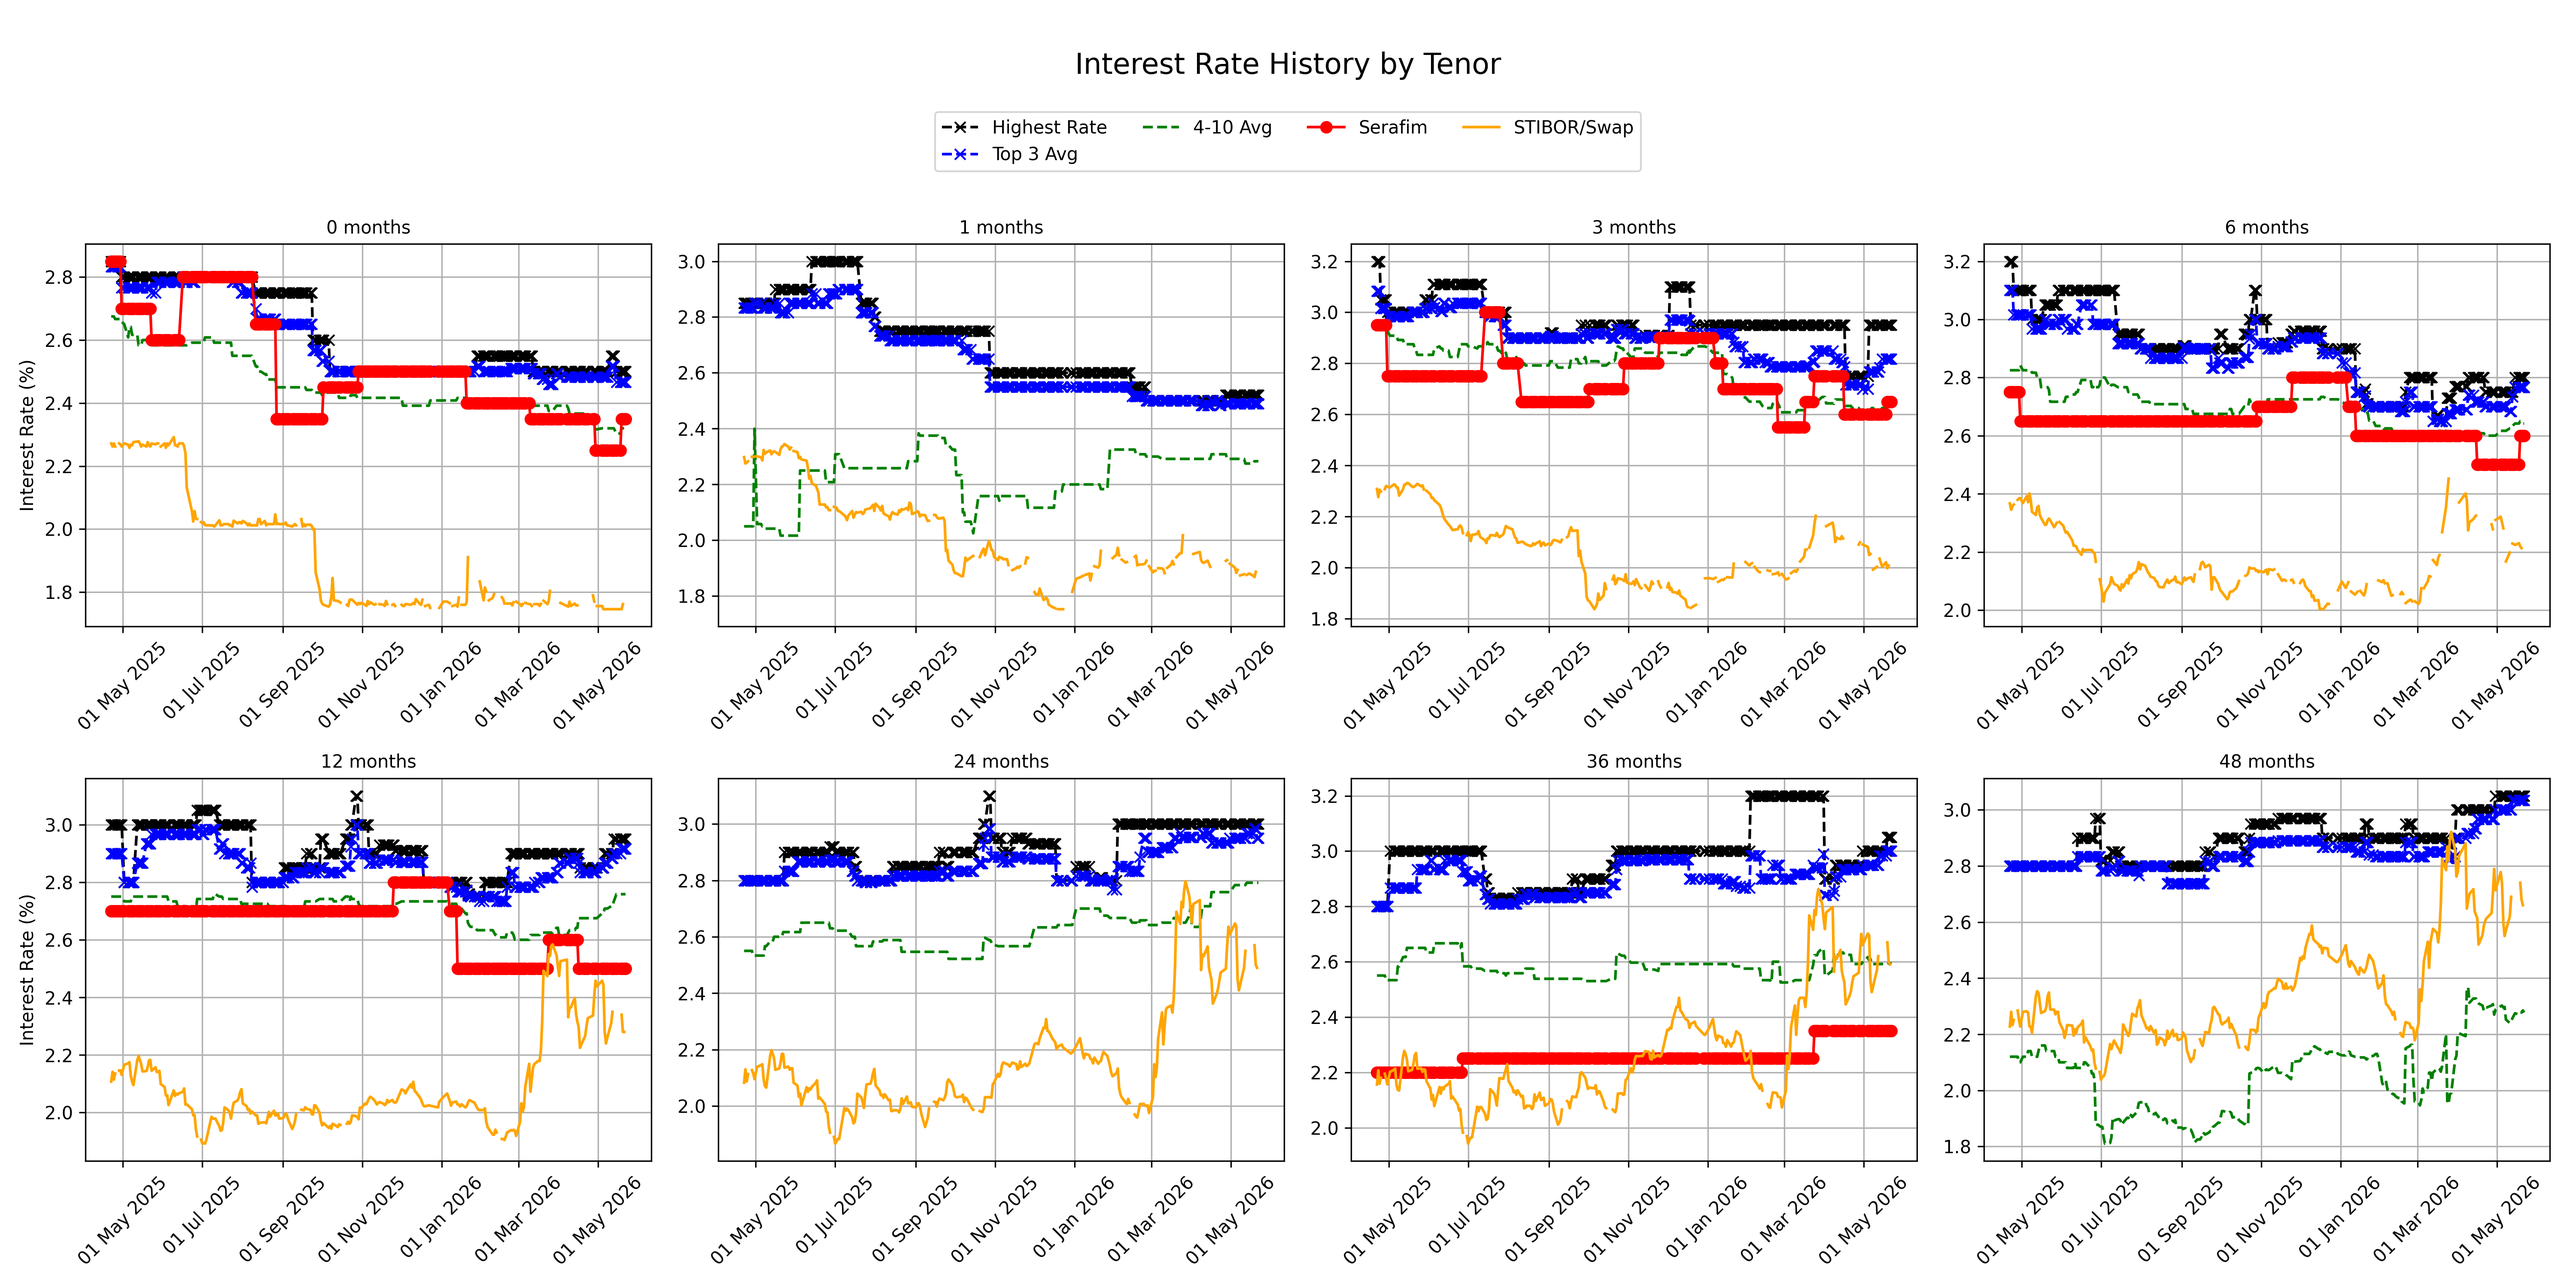
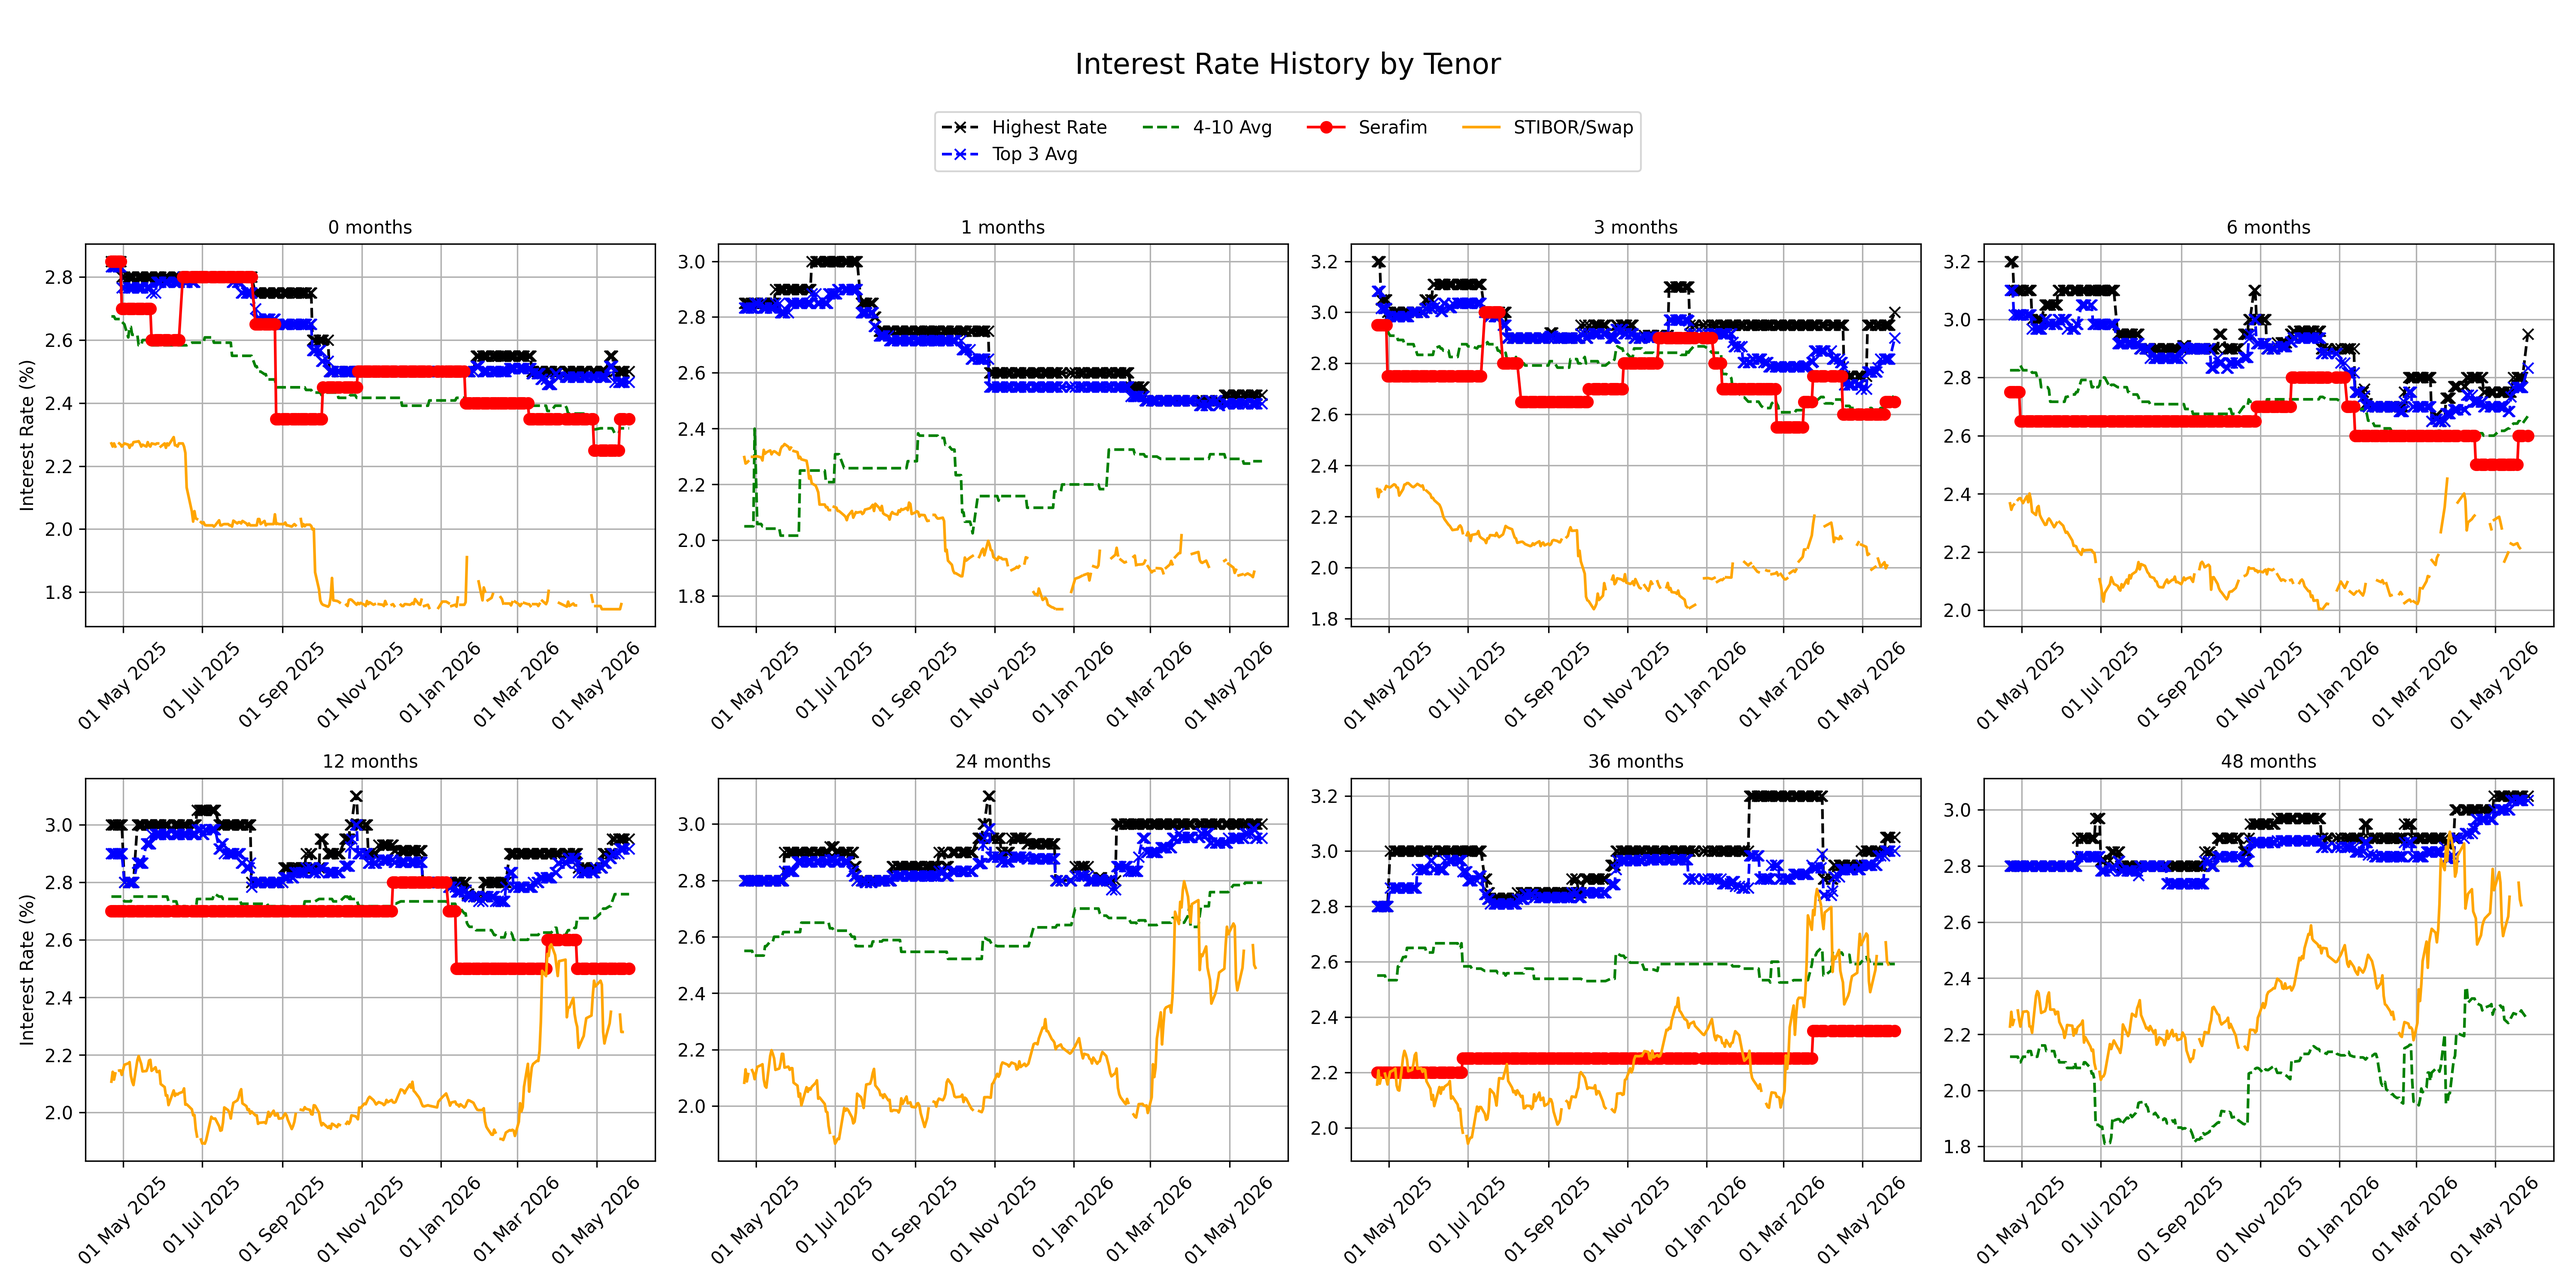
u

diff --git a/Serafim/index.html b/Serafim/index.html
@@ -81,7 +81,7 @@
 
     <h1>Competitor Overview - Serafim</h1>
     <div style="text-align: right; color: #555; font-size: 0.9em;">
-        Updated: 2026-05-22
+        Updated: 2026-05-26
     </div>
     
     <!-- Tab buttons -->
@@ -253,8 +253,8 @@
       <th>Coeli</th>
       <td>2.30</td>
       <td>-</td>
-      <td>2.60</td>
-      <td>2.55</td>
+      <td>3.00 (+0.40)</td>
+      <td>2.95 (+0.40)</td>
       <td>-</td>
       <td>2.60</td>
       <td>-</td>
@@ -337,7 +337,7 @@
       <th>Bankaktiebolaget Nordiska</th>
       <td>2.10</td>
       <td>-</td>
-      <td>2.70 (+0.05)</td>
+      <td>2.70</td>
       <td>2.60</td>
       <td>2.60</td>
       <td>2.60</td>
@@ -660,13 +660,13 @@
       <td>0.05</td>
       <td>2.15</td>
       <td>1.75</td>
-      <td>1.70 (-0.03)</td>
+      <td>1.70</td>
       <td>-</td>
-      <td>1.81 (-0.05)</td>
-      <td>2.14 (-0.06)</td>
-      <td>2.32 (-0.05)</td>
+      <td>1.73 (-0.08)</td>
+      <td>2.03 (-0.11)</td>
+      <td>2.20 (-0.12)</td>
       <td>-</td>
-      <td>2.56 (-0.08)</td>
+      <td>2.44 (-0.12)</td>
       <td>-</td>
     </tr>
     <tr>
@@ -719,10 +719,10 @@
       <td>1.90</td>
       <td>-</td>
       <td>2.05</td>
-      <td>1.93 (-0.04)</td>
-      <td>2.03 (-0.04)</td>
-      <td>2.11 (-0.03)</td>
-      <td>1.83 (-0.03)</td>
+      <td>1.85 (-0.08)</td>
+      <td>1.94 (-0.09)</td>
+      <td>2.01 (-0.10)</td>
+      <td>1.76 (-0.07)</td>
       <td>-</td>
     </tr>
     <tr>
@@ -794,17 +794,17 @@
   </thead>
   <tbody>
     <tr>
-      <th>Bankaktiebolaget Nordiska</th>
-      <td>2.10</td>
+      <th>Coeli</th>
+      <td>2.30</td>
       <td>-</td>
-      <td>2.70 (+0.05)</td>
+      <td>3.00 (+0.40)</td>
+      <td>2.95 (+0.40)</td>
+      <td>-</td>
       <td>2.60</td>
-      <td>2.60</td>
-      <td>2.60</td>
-      <td>2.70</td>
-      <td>2.75</td>
-      <td>2.80</td>
-      <td>2.85</td>
+      <td>-</td>
+      <td>-</td>
+      <td>-</td>
+      <td>-</td>
       <td>-</td>
     </tr>
     <tr>
@@ -812,13 +812,13 @@
       <td>0.05</td>
       <td>2.15</td>
       <td>1.75</td>
-      <td>1.70 (-0.03)</td>
+      <td>1.70</td>
       <td>-</td>
-      <td>1.81 (-0.05)</td>
-      <td>2.14 (-0.06)</td>
-      <td>2.32 (-0.05)</td>
+      <td>1.73 (-0.08)</td>
+      <td>2.03 (-0.11)</td>
+      <td>2.20 (-0.12)</td>
       <td>-</td>
-      <td>2.56 (-0.08)</td>
+      <td>2.44 (-0.12)</td>
       <td>-</td>
     </tr>
     <tr>
@@ -829,10 +829,10 @@
       <td>1.90</td>
       <td>-</td>
       <td>2.05</td>
-      <td>1.93 (-0.04)</td>
-      <td>2.03 (-0.04)</td>
-      <td>2.11 (-0.03)</td>
-      <td>1.83 (-0.03)</td>
+      <td>1.85 (-0.08)</td>
+      <td>1.94 (-0.09)</td>
+      <td>2.01 (-0.10)</td>
+      <td>1.76 (-0.07)</td>
       <td>-</td>
     </tr>
   </tbody>
